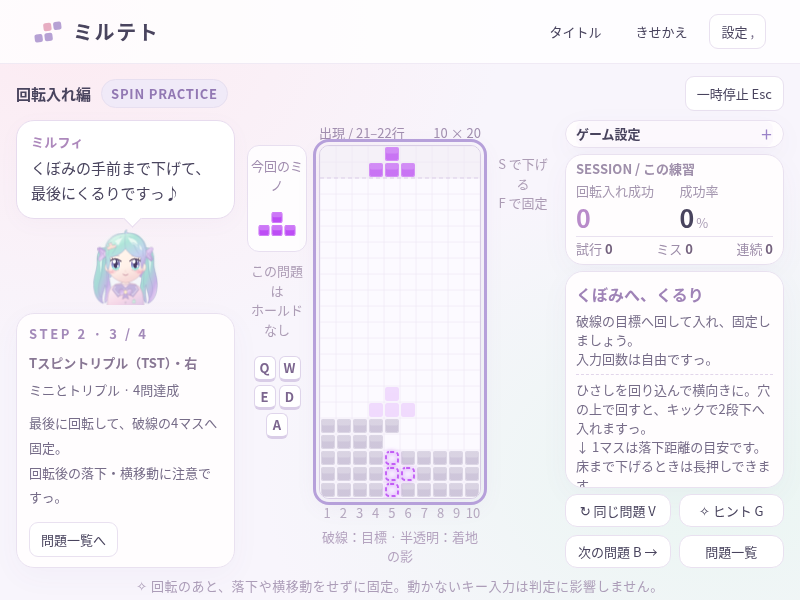
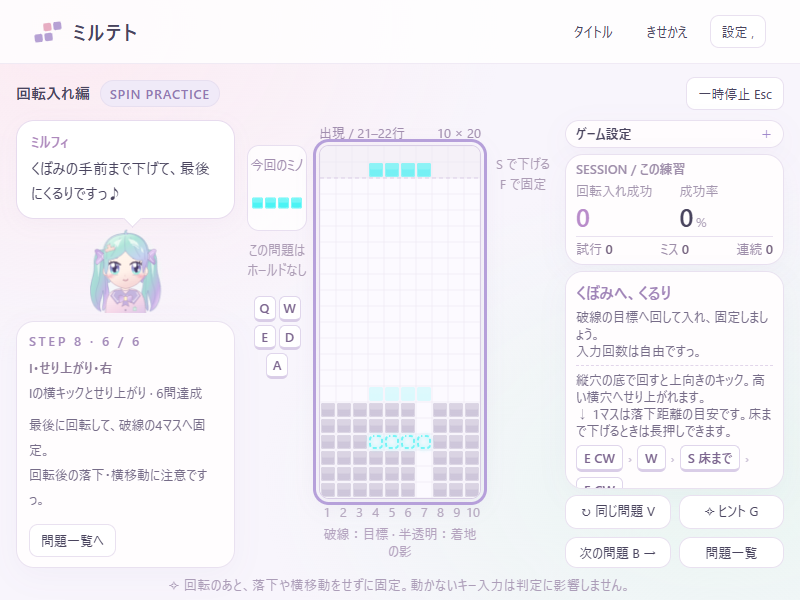
BL-140: expand rotation placement practice from 14 to 36 drills

diff --git a/dist/mirutet.html b/dist/mirutet.html
@@ -3300,6 +3300,40 @@ body[data-screen=dressup]{min-width:0;overflow:auto;height:auto}body[data-screen
   const iSpin = spinDrill('i-spin-right', 'Iスピン・右', 'I',
     ['.......###', '####...###', '######.###', '###....###'], { x: 3, y: -2, rot: 0 }, 1,
     '縦のIを細い通路へ。床まで下げて回すと、I専用のキックで横穴に入りますっ。');
+  // BL-140: distinct entrances and kick directions; mirrors train both hands.
+  const tFloor = spinDrill('t-mini-floor-left', 'Tミニ・床のくぼみ・左', 'T',
+    ["###..#####","###...####"], { x: 3, y: -1, rot: 0 }, 1,
+    '縦向きで床まで下げ、斜め下へのキックで上向きのTを収めましょう。');
+  const sPocket = spinDrill('s-pocket', 'S・縦のポケット', 'S',
+    ["###...####","###..#####","####..####","#####.####"], { x: 3, y: 0, rot: 1 }, 2,
+    '横向きで入口に乗せ、2段下へのキックで縦のくぼみに入れましょう。');
+  const sTriple = spinDrill('s-triple', 'S・細い縦穴3ライン', 'S',
+    ["####..####","####.#####","####..####","#####.####"], { x: 3, y: 0, rot: 1 }, 3,
+    '1マスの首を通る形です。入口で横向きにしてから回すのがポイント。');
+  const sRoof = spinDrill('s-roof', 'S・ひさしの下', 'S',
+    ["###..#####","####..####","###..#####"], { x: 3, y: 0, rot: 2 }, 2,
+    '入口のひさしが縦の直降りを防ぎます。上で寝かせてから向きを作りましょう。');
+  const lRoof = spinDrill('l-roof', 'L・広間の奥', 'L',
+    ["###..#####","###...####","###...####"], { x: 3, y: -1, rot: 0 }, 1,
+    '縦向きで広間へ。床の斜めキックで奥の横穴に収めましょう。');
+  const lShelf = spinDrill('l-shelf', 'L・足場への横キック', 'L',
+    ["####..####","###...####","#####.####"], { x: 3, y: 0, rot: 0 }, 1,
+    '穴の底まで下げてから横キック。1段上の足場に横向きで乗せましょう。');
+  const lInverted = spinDrill('l-inverted-narrow', 'L・逆さ入れ・細い入口', 'L',
+    ["#####.####","###...####","###.######"], { x: 3, y: 0, rot: 2 }, 2,
+    '細い入口に縦向きで下げ、足が下を向く形へ回しましょう。');
+  const lOpposite = spinDrill('l-inverted-wide', 'L・逆さ入れ・反対の入口', 'L',
+    ["###..#####","###...####","###.######"], { x: 3, y: 0, rot: 2 }, 2,
+    '今度は反対側から入ります。出っ張りの向きを合わせて斜め下へ。');
+  const iShallow = spinDrill('i-shallow-right', 'I・浅い横穴・右', 'I',
+    ["######.###","######.###","###....###"], { x: 3, y: -2, rot: 0 }, 1,
+    '浅い入口で縦向きを作り、I専用の斜めキックを使いましょう。');
+  const iShelf = spinDrill('i-shelf-left', 'I・中段の横穴・左', 'I',
+    ["###.######","###.######","###....###","###.######","###.######"], { x: 3, y: 0, rot: 0 }, 1,
+    '縦穴の底から横キックで中段へ。最後に下げず、その位置で固定しましょう。');
+  const iLift = spinDrill('i-lift-left', 'I・せり上がり・左', 'I',
+    ["###.######","###.######","###....###","###.######","###.######","###.######"], { x: 3, y: 1, rot: 0 }, 1,
+    '縦穴の底で回すと上向きのキック。高い横穴へせり上がれます。');
   const SPIN_SETS = deepFreeze([
     { id: 'basic-t', title: '基本のTスピン', grade: 'STEP 1', drills: [tSingle,
       mirrorSpin(tSingle, 't-single-right', 'Tスピンシングル・右'), tDouble,
@@ -3310,7 +3344,22 @@ body[data-screen=dressup]{min-width:0;overflow:auto;height:auto}body[data-screen
     { id: 'other-spins', title: 'S・Z・L・Jの回転入れ', grade: 'STEP 3', drills: [sSpin,
       mirrorSpin(sSpin, 'z-spin', 'Zスピン', 'Z'), lSpin, mirrorSpin(lSpin, 'j-spin', 'Jスピン', 'J')] },
     { id: 'i-spins', title: 'Iミノの回転入れ', grade: 'STEP 4', drills: [iSpin,
-      mirrorSpin(iSpin, 'i-spin-left', 'Iスピン・左')] }
+      mirrorSpin(iSpin, 'i-spin-left', 'Iスピン・左')] },
+    { id: 'floor-t', title: '床で仕上げるTミニ', grade: 'STEP 5', drills: [tFloor,
+      mirrorSpin(tFloor, 't-mini-floor-right', 'Tミニ・床のくぼみ・右')] },
+    { id: 'sz-pockets', title: 'S・Zの縦穴とひさし', grade: 'STEP 6', drills: [sPocket,
+      mirrorSpin(sPocket, 'z-pocket', 'Z・縦のポケット', 'Z'), sTriple,
+      mirrorSpin(sTriple, 'z-triple', 'Z・細い縦穴3ライン', 'Z'), sRoof,
+      mirrorSpin(sRoof, 'z-roof', 'Z・ひさしの下', 'Z')] },
+    { id: 'jl-pockets', title: 'L・Jの足場と逆さ入れ', grade: 'STEP 7', drills: [lRoof,
+      mirrorSpin(lRoof, 'j-roof', 'J・広間の奥', 'J'), lShelf,
+      mirrorSpin(lShelf, 'j-shelf', 'J・足場への横キック', 'J'), lInverted,
+      mirrorSpin(lInverted, 'j-inverted-narrow', 'J・逆さ入れ・細い入口', 'J'), lOpposite,
+      mirrorSpin(lOpposite, 'j-inverted-wide', 'J・逆さ入れ・反対の入口', 'J')] },
+    { id: 'i-kicks', title: 'Iの横キックとせり上がり', grade: 'STEP 8', drills: [iShallow,
+      mirrorSpin(iShallow, 'i-shallow-left', 'I・浅い横穴・左'), iShelf,
+      mirrorSpin(iShelf, 'i-shelf-right', 'I・中段の横穴・右'), iLift,
+      mirrorSpin(iLift, 'i-lift-right', 'I・せり上がり・右')] }
   ]);
   const SPIN_DRILLS = Object.freeze(SPIN_SETS.flatMap(set => set.drills));
   function spinBoard(drill) {

diff --git a/index.html b/index.html
@@ -3300,6 +3300,40 @@ body[data-screen=dressup]{min-width:0;overflow:auto;height:auto}body[data-screen
   const iSpin = spinDrill('i-spin-right', 'Iスピン・右', 'I',
     ['.......###', '####...###', '######.###', '###....###'], { x: 3, y: -2, rot: 0 }, 1,
     '縦のIを細い通路へ。床まで下げて回すと、I専用のキックで横穴に入りますっ。');
+  // BL-140: distinct entrances and kick directions; mirrors train both hands.
+  const tFloor = spinDrill('t-mini-floor-left', 'Tミニ・床のくぼみ・左', 'T',
+    ["###..#####","###...####"], { x: 3, y: -1, rot: 0 }, 1,
+    '縦向きで床まで下げ、斜め下へのキックで上向きのTを収めましょう。');
+  const sPocket = spinDrill('s-pocket', 'S・縦のポケット', 'S',
+    ["###...####","###..#####","####..####","#####.####"], { x: 3, y: 0, rot: 1 }, 2,
+    '横向きで入口に乗せ、2段下へのキックで縦のくぼみに入れましょう。');
+  const sTriple = spinDrill('s-triple', 'S・細い縦穴3ライン', 'S',
+    ["####..####","####.#####","####..####","#####.####"], { x: 3, y: 0, rot: 1 }, 3,
+    '1マスの首を通る形です。入口で横向きにしてから回すのがポイント。');
+  const sRoof = spinDrill('s-roof', 'S・ひさしの下', 'S',
+    ["###..#####","####..####","###..#####"], { x: 3, y: 0, rot: 2 }, 2,
+    '入口のひさしが縦の直降りを防ぎます。上で寝かせてから向きを作りましょう。');
+  const lRoof = spinDrill('l-roof', 'L・広間の奥', 'L',
+    ["###..#####","###...####","###...####"], { x: 3, y: -1, rot: 0 }, 1,
+    '縦向きで広間へ。床の斜めキックで奥の横穴に収めましょう。');
+  const lShelf = spinDrill('l-shelf', 'L・足場への横キック', 'L',
+    ["####..####","###...####","#####.####"], { x: 3, y: 0, rot: 0 }, 1,
+    '穴の底まで下げてから横キック。1段上の足場に横向きで乗せましょう。');
+  const lInverted = spinDrill('l-inverted-narrow', 'L・逆さ入れ・細い入口', 'L',
+    ["#####.####","###...####","###.######"], { x: 3, y: 0, rot: 2 }, 2,
+    '細い入口に縦向きで下げ、足が下を向く形へ回しましょう。');
+  const lOpposite = spinDrill('l-inverted-wide', 'L・逆さ入れ・反対の入口', 'L',
+    ["###..#####","###...####","###.######"], { x: 3, y: 0, rot: 2 }, 2,
+    '今度は反対側から入ります。出っ張りの向きを合わせて斜め下へ。');
+  const iShallow = spinDrill('i-shallow-right', 'I・浅い横穴・右', 'I',
+    ["######.###","######.###","###....###"], { x: 3, y: -2, rot: 0 }, 1,
+    '浅い入口で縦向きを作り、I専用の斜めキックを使いましょう。');
+  const iShelf = spinDrill('i-shelf-left', 'I・中段の横穴・左', 'I',
+    ["###.######","###.######","###....###","###.######","###.######"], { x: 3, y: 0, rot: 0 }, 1,
+    '縦穴の底から横キックで中段へ。最後に下げず、その位置で固定しましょう。');
+  const iLift = spinDrill('i-lift-left', 'I・せり上がり・左', 'I',
+    ["###.######","###.######","###....###","###.######","###.######","###.######"], { x: 3, y: 1, rot: 0 }, 1,
+    '縦穴の底で回すと上向きのキック。高い横穴へせり上がれます。');
   const SPIN_SETS = deepFreeze([
     { id: 'basic-t', title: '基本のTスピン', grade: 'STEP 1', drills: [tSingle,
       mirrorSpin(tSingle, 't-single-right', 'Tスピンシングル・右'), tDouble,
@@ -3310,7 +3344,22 @@ body[data-screen=dressup]{min-width:0;overflow:auto;height:auto}body[data-screen
     { id: 'other-spins', title: 'S・Z・L・Jの回転入れ', grade: 'STEP 3', drills: [sSpin,
       mirrorSpin(sSpin, 'z-spin', 'Zスピン', 'Z'), lSpin, mirrorSpin(lSpin, 'j-spin', 'Jスピン', 'J')] },
     { id: 'i-spins', title: 'Iミノの回転入れ', grade: 'STEP 4', drills: [iSpin,
-      mirrorSpin(iSpin, 'i-spin-left', 'Iスピン・左')] }
+      mirrorSpin(iSpin, 'i-spin-left', 'Iスピン・左')] },
+    { id: 'floor-t', title: '床で仕上げるTミニ', grade: 'STEP 5', drills: [tFloor,
+      mirrorSpin(tFloor, 't-mini-floor-right', 'Tミニ・床のくぼみ・右')] },
+    { id: 'sz-pockets', title: 'S・Zの縦穴とひさし', grade: 'STEP 6', drills: [sPocket,
+      mirrorSpin(sPocket, 'z-pocket', 'Z・縦のポケット', 'Z'), sTriple,
+      mirrorSpin(sTriple, 'z-triple', 'Z・細い縦穴3ライン', 'Z'), sRoof,
+      mirrorSpin(sRoof, 'z-roof', 'Z・ひさしの下', 'Z')] },
+    { id: 'jl-pockets', title: 'L・Jの足場と逆さ入れ', grade: 'STEP 7', drills: [lRoof,
+      mirrorSpin(lRoof, 'j-roof', 'J・広間の奥', 'J'), lShelf,
+      mirrorSpin(lShelf, 'j-shelf', 'J・足場への横キック', 'J'), lInverted,
+      mirrorSpin(lInverted, 'j-inverted-narrow', 'J・逆さ入れ・細い入口', 'J'), lOpposite,
+      mirrorSpin(lOpposite, 'j-inverted-wide', 'J・逆さ入れ・反対の入口', 'J')] },
+    { id: 'i-kicks', title: 'Iの横キックとせり上がり', grade: 'STEP 8', drills: [iShallow,
+      mirrorSpin(iShallow, 'i-shallow-left', 'I・浅い横穴・左'), iShelf,
+      mirrorSpin(iShelf, 'i-shelf-right', 'I・中段の横穴・右'), iLift,
+      mirrorSpin(iLift, 'i-lift-right', 'I・せり上がり・右')] }
   ]);
   const SPIN_DRILLS = Object.freeze(SPIN_SETS.flatMap(set => set.drills));
   function spinBoard(drill) {

diff --git a/src/engine.js b/src/engine.js
@@ -1120,6 +1120,40 @@
   const iSpin = spinDrill('i-spin-right', 'Iスピン・右', 'I',
     ['.......###', '####...###', '######.###', '###....###'], { x: 3, y: -2, rot: 0 }, 1,
     '縦のIを細い通路へ。床まで下げて回すと、I専用のキックで横穴に入りますっ。');
+  // BL-140: distinct entrances and kick directions; mirrors train both hands.
+  const tFloor = spinDrill('t-mini-floor-left', 'Tミニ・床のくぼみ・左', 'T',
+    ["###..#####","###...####"], { x: 3, y: -1, rot: 0 }, 1,
+    '縦向きで床まで下げ、斜め下へのキックで上向きのTを収めましょう。');
+  const sPocket = spinDrill('s-pocket', 'S・縦のポケット', 'S',
+    ["###...####","###..#####","####..####","#####.####"], { x: 3, y: 0, rot: 1 }, 2,
+    '横向きで入口に乗せ、2段下へのキックで縦のくぼみに入れましょう。');
+  const sTriple = spinDrill('s-triple', 'S・細い縦穴3ライン', 'S',
+    ["####..####","####.#####","####..####","#####.####"], { x: 3, y: 0, rot: 1 }, 3,
+    '1マスの首を通る形です。入口で横向きにしてから回すのがポイント。');
+  const sRoof = spinDrill('s-roof', 'S・ひさしの下', 'S',
+    ["###..#####","####..####","###..#####"], { x: 3, y: 0, rot: 2 }, 2,
+    '入口のひさしが縦の直降りを防ぎます。上で寝かせてから向きを作りましょう。');
+  const lRoof = spinDrill('l-roof', 'L・広間の奥', 'L',
+    ["###..#####","###...####","###...####"], { x: 3, y: -1, rot: 0 }, 1,
+    '縦向きで広間へ。床の斜めキックで奥の横穴に収めましょう。');
+  const lShelf = spinDrill('l-shelf', 'L・足場への横キック', 'L',
+    ["####..####","###...####","#####.####"], { x: 3, y: 0, rot: 0 }, 1,
+    '穴の底まで下げてから横キック。1段上の足場に横向きで乗せましょう。');
+  const lInverted = spinDrill('l-inverted-narrow', 'L・逆さ入れ・細い入口', 'L',
+    ["#####.####","###...####","###.######"], { x: 3, y: 0, rot: 2 }, 2,
+    '細い入口に縦向きで下げ、足が下を向く形へ回しましょう。');
+  const lOpposite = spinDrill('l-inverted-wide', 'L・逆さ入れ・反対の入口', 'L',
+    ["###..#####","###...####","###.######"], { x: 3, y: 0, rot: 2 }, 2,
+    '今度は反対側から入ります。出っ張りの向きを合わせて斜め下へ。');
+  const iShallow = spinDrill('i-shallow-right', 'I・浅い横穴・右', 'I',
+    ["######.###","######.###","###....###"], { x: 3, y: -2, rot: 0 }, 1,
+    '浅い入口で縦向きを作り、I専用の斜めキックを使いましょう。');
+  const iShelf = spinDrill('i-shelf-left', 'I・中段の横穴・左', 'I',
+    ["###.######","###.######","###....###","###.######","###.######"], { x: 3, y: 0, rot: 0 }, 1,
+    '縦穴の底から横キックで中段へ。最後に下げず、その位置で固定しましょう。');
+  const iLift = spinDrill('i-lift-left', 'I・せり上がり・左', 'I',
+    ["###.######","###.######","###....###","###.######","###.######","###.######"], { x: 3, y: 1, rot: 0 }, 1,
+    '縦穴の底で回すと上向きのキック。高い横穴へせり上がれます。');
   const SPIN_SETS = deepFreeze([
     { id: 'basic-t', title: '基本のTスピン', grade: 'STEP 1', drills: [tSingle,
       mirrorSpin(tSingle, 't-single-right', 'Tスピンシングル・右'), tDouble,
@@ -1130,7 +1164,22 @@
     { id: 'other-spins', title: 'S・Z・L・Jの回転入れ', grade: 'STEP 3', drills: [sSpin,
       mirrorSpin(sSpin, 'z-spin', 'Zスピン', 'Z'), lSpin, mirrorSpin(lSpin, 'j-spin', 'Jスピン', 'J')] },
     { id: 'i-spins', title: 'Iミノの回転入れ', grade: 'STEP 4', drills: [iSpin,
-      mirrorSpin(iSpin, 'i-spin-left', 'Iスピン・左')] }
+      mirrorSpin(iSpin, 'i-spin-left', 'Iスピン・左')] },
+    { id: 'floor-t', title: '床で仕上げるTミニ', grade: 'STEP 5', drills: [tFloor,
+      mirrorSpin(tFloor, 't-mini-floor-right', 'Tミニ・床のくぼみ・右')] },
+    { id: 'sz-pockets', title: 'S・Zの縦穴とひさし', grade: 'STEP 6', drills: [sPocket,
+      mirrorSpin(sPocket, 'z-pocket', 'Z・縦のポケット', 'Z'), sTriple,
+      mirrorSpin(sTriple, 'z-triple', 'Z・細い縦穴3ライン', 'Z'), sRoof,
+      mirrorSpin(sRoof, 'z-roof', 'Z・ひさしの下', 'Z')] },
+    { id: 'jl-pockets', title: 'L・Jの足場と逆さ入れ', grade: 'STEP 7', drills: [lRoof,
+      mirrorSpin(lRoof, 'j-roof', 'J・広間の奥', 'J'), lShelf,
+      mirrorSpin(lShelf, 'j-shelf', 'J・足場への横キック', 'J'), lInverted,
+      mirrorSpin(lInverted, 'j-inverted-narrow', 'J・逆さ入れ・細い入口', 'J'), lOpposite,
+      mirrorSpin(lOpposite, 'j-inverted-wide', 'J・逆さ入れ・反対の入口', 'J')] },
+    { id: 'i-kicks', title: 'Iの横キックとせり上がり', grade: 'STEP 8', drills: [iShallow,
+      mirrorSpin(iShallow, 'i-shallow-left', 'I・浅い横穴・左'), iShelf,
+      mirrorSpin(iShelf, 'i-shelf-right', 'I・中段の横穴・右'), iLift,
+      mirrorSpin(iLift, 'i-lift-right', 'I・せり上がり・右')] }
   ]);
   const SPIN_DRILLS = Object.freeze(SPIN_SETS.flatMap(set => set.drills));
   function spinBoard(drill) {

diff --git a/tests/spin.browser.check.js b/tests/spin.browser.check.js
@@ -50,12 +50,31 @@ async function runSpinChecks(browser, root) {
     });
     await page.goto(pathToFileURL(path.join(root, 'dist/mirutet.html')).href + '#spin-seed');
     await page.reload(); await page.waitForFunction(() => !!window.__mirutet);
+    // An existing 14/14 profile must remain 14/36 after this content update.
+    const legacyContext = await browser.newContext();
+    const legacyPage = await legacyContext.newPage();
+    const legacyIds = E.SPIN_DRILLS.slice(0, 14).map(d => d.id);
+    const legacyProfile = await page.evaluate(() => JSON.parse(localStorage.getItem('mirutet-finesse.v1')));
+    legacyProfile.spin = { current: legacyIds.at(-1), completed: legacyIds, stats: { attempts: 14, perfect: 14 } };
+    await legacyPage.addInitScript(profile => {
+      localStorage.setItem('mirutet-finesse.v1', JSON.stringify(profile));
+    }, legacyProfile);
+    await legacyPage.goto(pathToFileURL(path.join(root, 'dist/mirutet.html')).href);
+    await legacyPage.locator('[data-act=mode-spin]').click();
+    await legacyPage.locator('[data-act=spins]').click();
+    assert.equal(await legacyPage.locator('.lesson-card.done').count(), 14);
+    assert.equal(await legacyPage.locator('[data-act=spin-drill]').count(), 36);
+    assert.match(await legacyPage.locator('.mint-tag').innerText(), /14 \/ 36/);
+    await legacyPage.locator('[data-id=i-lift-right]').click();
+    await legacyPage.waitForFunction(() => window.__mirutet.getState().active);
+    assert.equal((await legacyPage.evaluate(() => window.__mirutet.getState())).round.drillId, 'i-lift-right');
+    await legacyContext.close();
     const finesseBefore = (await state()).totalStats;
     await click('mode-spin');
     assert.equal(await page.locator('[data-act=tutorial],[data-act=lessons],[data-act=sprint]').count(), 0, 'Drills only');
     await click('spins');
-    assert.equal(await page.locator('.spin-set').count(), 4);
-    assert.equal(await page.locator('[data-act=spin-drill]').count(), 14);
+    assert.equal(await page.locator('.spin-set').count(), E.SPIN_SETS.length);
+    assert.equal(await page.locator('[data-act=spin-drill]').count(), E.SPIN_DRILLS.length);
     await layout('spin selection');
     for (const drill of E.SPIN_DRILLS) {
       await page.locator(`[data-act=spin-drill][data-id="${drill.id}"]`).click(); await ready();
@@ -103,18 +122,21 @@ async function runSpinChecks(browser, root) {
       await click('spins');
     }
     const completed = await state();
-    assert.equal(completed.spinProgress.completed.length, 14); assert.equal(completed.spinStats.perfect, 14);
-    assert.equal(completed.spinStats.attempts, 15); assert.deepEqual(completed.totalStats, finesseBefore);
+    assert.equal(completed.spinProgress.completed.length, E.SPIN_DRILLS.length); assert.equal(completed.spinStats.perfect, E.SPIN_DRILLS.length);
+    assert.equal(completed.spinStats.attempts, E.SPIN_DRILLS.length + 1); assert.deepEqual(completed.totalStats, finesseBefore);
     assert.deepEqual(completed.progress, { current: 3, completed: [1, 3] });
     await page.reload(); await page.waitForFunction(() => !!window.__mirutet);
     assert.deepEqual((await state()).spinProgress, completed.spinProgress);
     assert.deepEqual((await state()).spinStats, completed.spinStats);
     await click('mode-spin'); await click('spin-continue'); await ready();
-    assert.equal((await state()).round.drillId, 'i-spin-left');
-    await click('spins'); assert.equal(await page.locator('.lesson-card.done').count(), 14);
+    assert.equal((await state()).round.drillId, E.SPIN_DRILLS.at(-1).id);
+    await click('spins'); assert.equal(await page.locator('.lesson-card.done').count(), E.SPIN_DRILLS.length);
     for (const [width, height] of [[1920, 1080], [1280, 720], [800, 600]]) {
       await page.setViewportSize({ width, height }); await layout(`selection ${width}`);
-      await page.locator('[data-id=t-triple-right]').click(); await ready();
+      await page.locator('[data-id=i-lift-right]').scrollIntoViewIfNeeded();
+      await layout(`last set ${width}`);
+      await page.screenshot({ path: path.join(root, 'screens', `spin-selection-${width}.png`) });
+      await page.locator('[data-id=i-lift-right]').click(); await ready();
       await tap('hint'); await layout(`play hint ${width}`);
       await click('toggle-handling'); await layout(`handling ${width}`);
       await click('toggle-handling');
@@ -161,7 +183,7 @@ async function runSpinChecks(browser, root) {
     assert.deepEqual(fallbackState.spinProgress.completed, ['t-single-left']);
     await fallback.close();
     assert.deepEqual(errors, []); assert.deepEqual(requests, []);
-    console.log('Spin browser checks passed: 14 drill solutions, 4 sets, 3 viewport sizes; miss/retry/next, hints, custom bindings/handling, settings pause, reload/progress, preference import/reset, isolated finesse records, storage/audio fallback, no network.');
+    console.log('Spin browser checks passed: 36 drill solutions, 8 sets, 3 viewport sizes; miss/retry/next, hints, custom bindings/handling, settings pause, reload/progress, preference import/reset, isolated finesse records, storage/audio fallback, no network.');
   } finally { await context.close(); }
 }
 module.exports = { runSpinChecks };

diff --git a/tests/engine.spin.test.js b/tests/engine.spin.test.js
@@ -4,6 +4,44 @@ const assert = require('node:assert/strict');
 const E = require('../src/engine');
 const stateKey = s => [s.x, s.y, s.rot].join(',');
 
+test('expanded catalog preserves the original four sets and all saved progress', () => {
+  const legacy = require('./spin-legacy.json');
+  assert.deepEqual(E.SPIN_SETS.slice(0, 4), legacy);
+  assert.equal(E.SPIN_DRILLS.length, 36);
+  assert.equal(E.SPIN_SETS.length, 8);
+  assert.equal(new Set(E.SPIN_DRILLS.map(d => d.id)).size, 36);
+  const completed = legacy.flatMap(s => s.drills.map(d => d.id));
+  for (const current of completed) assert.deepEqual(E.normalizeSpinProgress({ current, completed }), { current, completed });
+  const layouts = new Set();
+  for (const d of E.SPIN_DRILLS) {
+    assert.ok(d.rows.every(r => /^[.#]{10}$/.test(r)), d.id);
+    const layout = JSON.stringify([d.type, d.rows, d.cells]);
+    assert.ok(!layouts.has(layout), `Duplicate board/target: ${d.id}`);
+    layouts.add(layout);
+  }
+});
+
+test('new hint routes exercise downward, sideways and upward kicks, without 180', () => {
+  const entries = {};
+  for (const d of E.SPIN_DRILLS.slice(14)) {
+    const board = E.spinBoard(d), route = E.solveSpinDrill(d, { allow180: false });
+    let state = E.spawnPiece(d.type), before;
+    for (const action of route) {
+      before = state;
+      state = action === 'floor' ? E.hardDrop(board, state) : action === 'softDrop' ?
+        E.movePiece(board, state, 0, -1) : E.applyAction(board, state, action, { allow180: false });
+    }
+    assert.ok(E.sameCells(E.cells(state), d.cells), d.id);
+    entries[d.id] = { dx: state.x - before.x, dy: state.y - before.y };
+    assert.ok(entries[d.id].dx || entries[d.id].dy, `${d.id}: hint must demonstrate a kick`);
+  }
+  for (const id of ['s-pocket', 'z-pocket', 's-triple', 'z-triple']) assert.equal(entries[id].dy, -2, id);
+  for (const id of ['l-shelf', 'j-shelf', 'i-shelf-left', 'i-shelf-right']) {
+    assert.equal(entries[id].dy, 0, id); assert.equal(Math.abs(entries[id].dx), 1, id);
+  }
+  for (const id of ['i-lift-left', 'i-lift-right']) assert.equal(entries[id].dy, 2, id);
+});
+
 // Exhaust the complete reachable graph, including deliberate descent, hard
 // drops, both directions, and optionally 180. Do not use the hint solver here.
 function audit(drill, options) {
